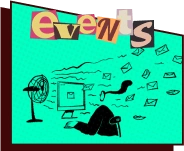
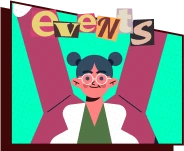
Updated OurTeams page

diff --git a/client/src/pages/OurTeams.jsx b/client/src/pages/OurTeams.jsx
@@ -35,7 +35,8 @@ import Doghnut from "../assets/images/Donut.webp";
 import OurMentors from "../assets/images/OurMentors.webp";
 import OurTeamIndex from "../components/OurTeam/OurTeamIndex";
 import OurTeamTitle from "../assets/images/OurTeam.webp";
-
+import MentorMobile from "../assets/images/OurTeamsMentorMobile.png";
+import MentorMobileText from "../assets/images/OurTeamsMentorTextMobile.png";
 function OurTeams() {
     const festHeadsRef = useRef(null);
     const councilRef = useRef(null);
@@ -64,7 +65,7 @@ function OurTeams() {
     return (
         <div className="overflow-hidden">
             <div
-                className="relative sm:pt-[20%] pt-[25%] md:pt-[6.5%]"
+                className="relative sm:pt-[20%] pt-[25%] md:pt-[9%]"
                 style={{
                     backgroundImage: `url(${BgGreen})`,
                     backgroundSize: "cover",
@@ -86,7 +87,9 @@ function OurTeams() {
                 </h1>
 
                 <div className="grid place-items-center w-[100%]">
-                    <img src={OurMentors} className="p-[2%] pl-[8%]" />
+                    <img src={OurMentors} className="p-[2%] pl-[8%] hidden md:block" />
+                    <img src={MentorMobile} className="block md:hidden px-[7%] w-[100%]" />
+                    <img src={MentorMobileText} className="block md:hidden px-[5%] w-[100%] h-[100%]"/>
                 </div>
                 <div className="w-[100%] flex items-center text-center flex-wrap justify-center p-[2%]">
                     <h3 className="font-vetosans font-[600] text-[1.375rem] w-[64%]">

diff --git a/client/src/components/OurTeam/OurTeamIndex.jsx b/client/src/components/OurTeam/OurTeamIndex.jsx
@@ -11,7 +11,7 @@ import Curation from "../../assets/images/Curation.webp";
 function OurTeamIndex({ scrollToSection }) {
     return (
         <div className="grid place-items-center">
-            <div className="grid max-[400px]:place-items-center grid-cols-2 gap-2 w-[100%]">
+            <div className="grid max-[400px]:place-items-center grid-cols-2 gap-2 w-[100%] pb-[10%]">
                 <div onClick={() => scrollToSection("festHeads")}>
                     <img src={FestHeads} className="w-[100%] h-[100%] min-[400px]:p-[2%]" />
                 </div>

diff --git a/client/src/components/OurTeam/TeamArea.jsx b/client/src/components/OurTeam/TeamArea.jsx
@@ -4,7 +4,7 @@ import MentorLine from "../../assets/images/MentorLine.webp";
 function TeamArea({ SectionTitle, BgColor, Pattern, RightOne, RightTwo, LeftOne, LeftTwo, CardTeam, Members, PositionArr = ["0", "0", "0", "0"] }) {
     
     return (
-        <div className="relative flex justify-center "
+        <div className="relative flex justify-center py-[5%]"
             style={{
                 backgroundImage: `url(${BgColor})`,
                 backgroundSize: "cover",
